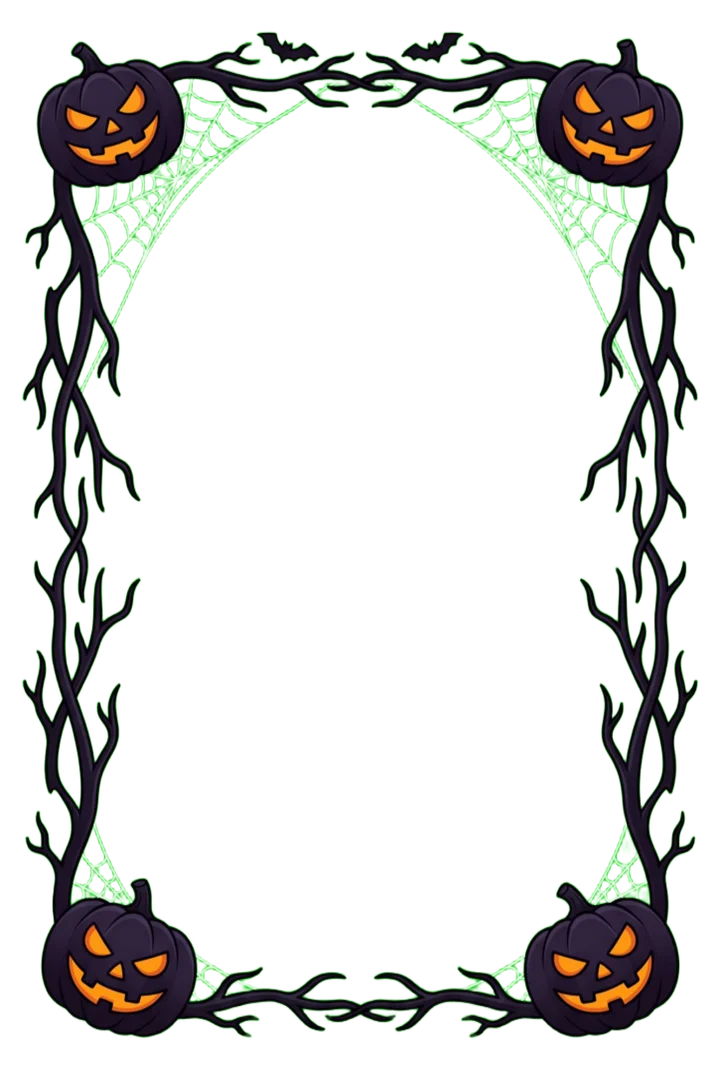
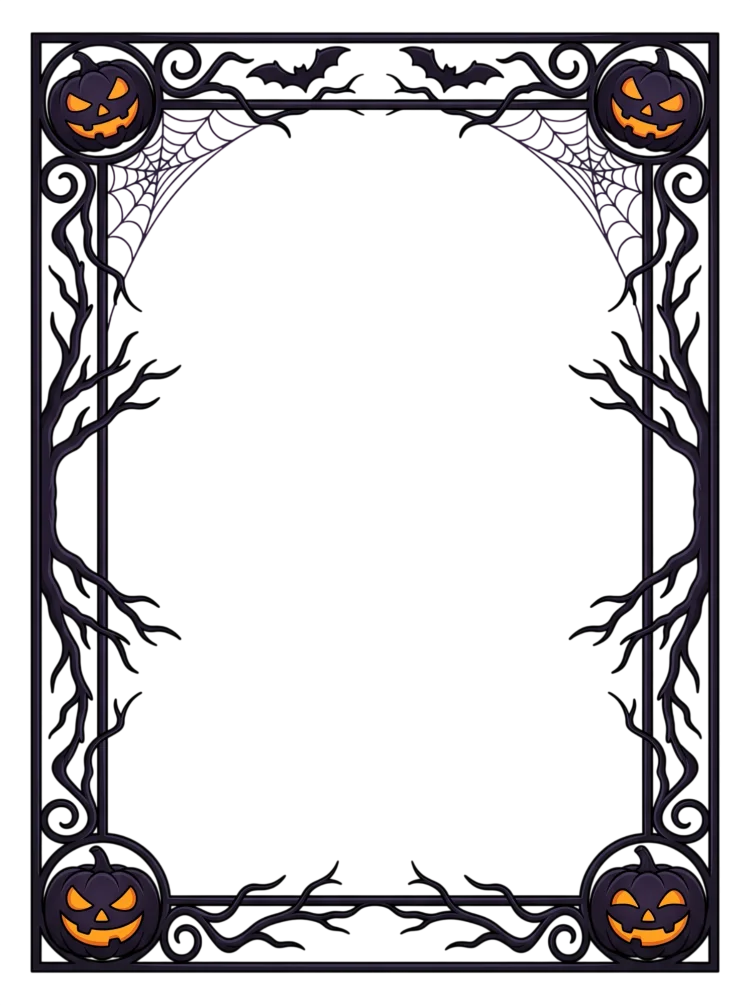
Cadres de fête en version bordure : l'illustration se réduit à l'ouverture du cadre (nouveaux cadres larges de Jordan)

Changed region(s): [[0.0306, 0.0308, 0.9778, 0.9871]]

diff --git a/sw.js b/sw.js
@@ -5,9 +5,9 @@
    Le bloc entre les deux repères est réécrit par « node outils/versions.js » : ne pas le modifier à la main. */
 "use strict";
 /* VERSIONS-AUTO-DEBUT */
-const CORE_VERSION = "4b1147fe54";
-const MEDIA_VERSION = "0e15ce91e9";
-const PRECACHE_CORE = ["index.html","manifest.json","fonts/fonts.css?v=a5827da2","jeu.css?v=79c808df","vendor/supabase.js?v=16aeff36","config.js?v=bf7d9cd8","cloud.js?v=a13ce63b","cartes-en.js?v=b669ae2b","interface-en.js?v=cdd12c88","js/bac-a-sable.js?v=691dd380","js/cartes.js?v=f4223fd7","js/langue-profil.js?v=ee853e82","js/sons-effets.js?v=615d1c2f","js/moteur.js?v=91083fb9","js/boutique-modes.js?v=7a0b70bd","js/holo.js?v=bd9f5a71","js/ouverture.js?v=62a77604","js/interface.js?v=08609b58","js/sw-register.js?v=94e2e138"];
+const CORE_VERSION = "feeaeb6063";
+const MEDIA_VERSION = "e69fef2344";
+const PRECACHE_CORE = ["index.html","manifest.json","fonts/fonts.css?v=a5827da2","jeu.css?v=43bc0903","vendor/supabase.js?v=16aeff36","config.js?v=bf7d9cd8","cloud.js?v=a13ce63b","cartes-en.js?v=b669ae2b","interface-en.js?v=cdd12c88","js/bac-a-sable.js?v=691dd380","js/cartes.js?v=f4223fd7","js/langue-profil.js?v=ee853e82","js/sons-effets.js?v=615d1c2f","js/moteur.js?v=91083fb9","js/boutique-modes.js?v=7a0b70bd","js/holo.js?v=bd9f5a71","js/ouverture.js?v=62a77604","js/interface.js?v=bd437b36","js/sw-register.js?v=94e2e138"];
 const PRECACHE_MEDIA = ["fonts/manrope-latin-ext-wght-normal.woff2","fonts/manrope-latin-wght-normal.woff2","fonts/marcellus-latin-400-normal.woff2","fonts/marcellus-latin-ext-400-normal.woff2","fonts/marcellus-sc-latin-400-normal.woff2","fonts/marcellus-sc-latin-ext-400-normal.woff2","icones/apple-touch-icon.png","icones/favicon-48.png","icones/icone-192.png","icones/icone-512.png","icones/icone-maskable-512.png","images/fond.webp","images/fond_halloween.webp","images/fond_noel.webp","images/fond_nouvelan.webp","images/fond_valentin.webp","images/lieux/inconnu.webp","images/pack.webp","images/rangs/0.webp","images/rangs/1.webp","images/rangs/2.webp","images/rangs/3.webp","images/rangs/4.webp","images/rangs/5.webp","images/rangs/6.webp","images/reflet.webp"];
 const PRECACHE_LAZY = ["images/avatars/aine.webp?v=7","images/avatars/amaterasu.webp?v=7","images/avatars/anahita.webp?v=7","images/avatars/ananke.webp?v=7","images/avatars/ananke_r.webp?v=7","images/avatars/ananke_v.webp?v=7","images/avatars/anansi.webp?v=7","images/avatars/anat.webp?v=7","images/avatars/andraste.webp?v=7","images/avatars/anubis.webp?v=7","images/avatars/aphrodite.webp?v=7","images/avatars/aphrodite_n.webp?v=7","images/avatars/aphrodite_r.webp?v=7","images/avatars/apollon.webp?v=7","images/avatars/apsu.webp?v=7","images/avatars/apsu_n.webp?v=7","images/avatars/araignee.webp?v=7","images/avatars/archiviste.webp?v=7","images/avatars/ares.webp?v=7","images/avatars/ares_h.webp?v=7","images/avatars/ares_n.webp?v=7","images/avatars/artemis.webp?v=7","images/avatars/artiste.webp?v=7","images/avatars/athena.webp?v=7","images/avatars/athlete_stade.webp?v=7","images/avatars/baba_yaga.webp?v=7","images/avatars/baldur.webp?v=7","images/avatars/balor.webp?v=7","images/avatars/bari_gongju.webp?v=7","images/avatars/bastet.webp?v=7","images/avatars/belobog.webp?v=7","images/avatars/benzaiten.webp?v=7","images/avatars/bia.webp?v=7","images/avatars/biblio.webp?v=7","images/avatars/boucher.webp?v=7","images/avatars/bourreau.webp?v=7","images/avatars/brigid.webp?v=7","images/avatars/calypso.webp?v=7","images/avatars/calypso_n.webp?v=7","images/avatars/calypso_v.webp?v=7","images/avatars/carillonneur.webp?v=7","images/avatars/celeste.webp?v=7","images/avatars/cernunnos.webp?v=7","images/avatars/cerridwen.webp?v=7","images/avatars/change.webp?v=7","images/avatars/charognard.webp?v=7","images/avatars/chasseur.webp?v=7","images/avatars/chernobog.webp?v=7","images/avatars/circe.webp?v=7","images/avatars/circe_n.webp?v=7","images/avatars/circe_v.webp?v=7","images/avatars/colosse.webp?v=7","images/avatars/comptable.webp?v=7","images/avatars/costumes.webp?v=7","images/avatars/coursier.webp?v=7","images/avatars/couturiere.webp?v=7","images/avatars/cronos.webp?v=7","images/avatars/dagda.webp?v=7","images/avatars/daji.webp?v=7","images/avatars/dante.webp?v=7","images/avatars/danu.webp?v=7","images/avatars/demeter.webp?v=7","images/avatars/devote.webp?v=7","images/avatars/dionysos.webp?v=7","images/avatars/doyenne.webp?v=7","images/avatars/dumuzi.webp?v=7","images/avatars/durga.webp?v=7","images/avatars/ea.webp?v=7","images/avatars/echidna.webp?v=7","images/avatars/ecoliere_dorigny.webp?v=7","images/avatars/ecorche.webp?v=7","images/avatars/effigie.webp?v=7","images/avatars/eir.webp?v=7","images/avatars/emiri.webp?v=7","images/avatars/enfant.webp?v=7","images/avatars/eos.webp?v=7","images/avatars/eos_r.webp?v=7","images/avatars/eos_v.webp?v=7","images/avatars/ereshkigal.webp?v=7","images/avatars/ereshkigal_n.webp?v=7","images/avatars/ereshkigal_v.webp?v=7","images/avatars/eris.webp?v=7","images/avatars/eros.webp?v=7","images/avatars/esquille.webp?v=7","images/avatars/fange.webp?v=7","images/avatars/felix.webp?v=7","images/avatars/fenrir.webp?v=7","images/avatars/ficelle.webp?v=7","images/avatars/freya.webp?v=7","images/avatars/freyr.webp?v=7","images/avatars/frigg.webp?v=7","images/avatars/funambule.webp?v=7","images/avatars/gaia.webp?v=7","images/avatars/graffeur.webp?v=7","images/avatars/guanyin.webp?v=7","images/avatars/hades.webp?v=7","images/avatars/hathor.webp?v=7","images/avatars/hecate.webp?v=7","images/avatars/hedone.webp?v=7","images/avatars/heimdall.webp?v=7","images/avatars/hel.webp?v=7","images/avatars/hel_r.webp?v=7","images/avatars/hel_v.webp?v=7","images/avatars/hephaistos.webp?v=7","images/avatars/hera.webp?v=7","images/avatars/herakles.webp?v=7","images/avatars/hermes.webp?v=7","images/avatars/horus.webp?v=7","images/avatars/hypnos.webp?v=7","images/avatars/idunn.webp?v=7","images/avatars/inanna.webp?v=7","images/avatars/indra.webp?v=7","images/avatars/ishara.webp?v=7","images/avatars/ishtar.webp?v=7","images/avatars/isis.webp?v=7","images/avatars/ixchel.webp?v=7","images/avatars/izanami.webp?v=7","images/avatars/izzy.webp?v=7","images/avatars/izzy_h.webp?v=7","images/avatars/joanna.webp?v=7","images/avatars/jordan.webp?v=7","images/avatars/jordan_n.webp?v=7","images/avatars/jormungandr.webp?v=7","images/avatars/joueuse_palud.webp?v=7","images/avatars/kali.webp?v=7","images/avatars/kama.webp?v=7","images/avatars/kitsune.webp?v=7","images/avatars/kitsune_r.webp?v=7","images/avatars/kitsune_v.webp?v=7","images/avatars/konohana.webp?v=7","images/avatars/lance_lugh.webp?v=7","images/avatars/lilith.webp?v=7","images/avatars/lipdentelle.webp?v=7","images/avatars/loki.webp?v=7","images/avatars/loviatar.webp?v=7","images/avatars/lugh.webp?v=7","images/avatars/maat.webp?v=7","images/avatars/maeve.webp?v=7","images/avatars/mago.webp?v=7","images/avatars/marduk.webp?v=7","images/avatars/maree.webp?v=7","images/avatars/maui.webp?v=7","images/avatars/medee.webp?v=7","images/avatars/medee_h.webp?v=7","images/avatars/meduse.webp?v=7","images/avatars/melinoe.webp?v=7","images/avatars/mendiant.webp?v=7","images/avatars/mere.webp?v=7","images/avatars/messagere.webp?v=7","images/avatars/meute.webp?v=7","images/avatars/mohini.webp?v=7","images/avatars/morrigan.webp?v=7","images/avatars/morrigan_h.webp?v=7","images/avatars/mouche.webp?v=7","images/avatars/musicien.webp?v=7","images/avatars/nageuse_lac.webp?v=7","images/avatars/namaka.webp?v=7","images/avatars/nammu.webp?v=7","images/avatars/nemesis.webp?v=7","images/avatars/nephtys.webp?v=7","images/avatars/nergal.webp?v=7","images/avatars/nergal_h.webp?v=7","images/avatars/nike.webp?v=7","images/avatars/nike_v.webp?v=7","images/avatars/nuee.webp?v=7","images/avatars/nuwa.webp?v=7","images/avatars/nyx.webp?v=7","images/avatars/nyx_h.webp?v=7","images/avatars/odin.webp?v=7","images/avatars/oshun.webp?v=7","images/avatars/osiris.webp?v=7","images/avatars/oya.webp?v=7","images/avatars/pakhet.webp?v=7","images/avatars/pandore.webp?v=7","images/avatars/passante.webp?v=7","images/avatars/patronne.webp?v=7","images/avatars/peche_immortalite.webp?v=7","images/avatars/pele.webp?v=7","images/avatars/pele_r.webp?v=7","images/avatars/penitente.webp?v=7","images/avatars/persephone.webp?v=7","images/avatars/plume.webp?v=7","images/avatars/poseidon.webp?v=7","images/avatars/possedee.webp?v=7","images/avatars/promethee.webp?v=7","images/avatars/psyche.webp?v=7","images/avatars/qetesh.webp?v=7","images/avatars/qetesh_r.webp?v=7","images/avatars/qetesh_v.webp?v=7","images/avatars/quetzalcoatl.webp?v=7","images/avatars/ra.webp?v=7","images/avatars/rati.webp?v=7","images/avatars/refaph.webp?v=7","images/avatars/reflet_noir.webp?v=7","images/avatars/reine_sevelin.webp?v=7","images/avatars/relieur.webp?v=7","images/avatars/remi.webp?v=7","images/avatars/rhea.webp?v=7","images/avatars/rusalka.webp?v=7","images/avatars/sansvoix.webp?v=7","images/avatars/scathach.webp?v=7","images/avatars/sedna.webp?v=7","images/avatars/sekhmet.webp?v=7","images/avatars/sekhmet_n.webp?v=7","images/avatars/selene.webp?v=7","images/avatars/set.webp?v=7","images/avatars/shamash.webp?v=7","images/avatars/shango.webp?v=7","images/avatars/shiva.webp?v=7","images/avatars/sif.webp?v=7","images/avatars/skadi.webp?v=7","images/avatars/somnambule.webp?v=7","images/avatars/source.webp?v=7","images/avatars/strategue.webp?v=7","images/avatars/styx.webp?v=7","images/avatars/sun_wukong.webp?v=7","images/avatars/susanoo.webp?v=7","images/avatars/tatoueur.webp?v=7","images/avatars/tatoueuse_flon.webp?v=7","images/avatars/tefnut.webp?v=7","images/avatars/tehom.webp?v=7","images/avatars/tezcatlipoca.webp?v=7","images/avatars/thanatos.webp?v=7","images/avatars/themis.webp?v=7","images/avatars/thor.webp?v=7","images/avatars/thot.webp?v=7","images/avatars/tlazol.webp?v=7","images/avatars/troll.webp?v=7","images/avatars/tsukuyomi.webp?v=7","images/avatars/typhon.webp?v=7","images/avatars/tyr.webp?v=7","images/avatars/ulaph.webp?v=7","images/avatars/ulaphares.webp?v=7","images/avatars/ularchiviste.webp?v=7","images/avatars/ularesathe.webp?v=7","images/avatars/ulbaldere.webp?v=7","images/avatars/ulbaldfrigg.webp?v=7","images/avatars/ulcal.webp?v=7","images/avatars/ulcircal.webp?v=7","images/avatars/ulcirce.webp?v=7","images/avatars/ulhadper.webp?v=7","images/avatars/ulhel.webp?v=7","images/avatars/ulheradio.webp?v=7","images/avatars/ulinaere.webp?v=7","images/avatars/ulji.webp?v=7","images/avatars/ulmaatset.webp?v=7","images/avatars/ulnem.webp?v=7","images/avatars/ulnikebia.webp?v=7","images/avatars/ulnikejor_v.webp?v=7","images/avatars/uloshoya.webp?v=7","images/avatars/uloshun.webp?v=7","images/avatars/ulpele_r.webp?v=7","images/avatars/ulposathe.webp?v=7","images/avatars/ulprombia.webp?v=7","images/avatars/ulprompan.webp?v=7","images/avatars/ulqetjor.webp?v=7","images/avatars/ulqetjor_r.webp?v=7","images/avatars/ulqetjor_v.webp?v=7","images/avatars/ulqetyar.webp?v=7","images/avatars/ulsomnambule.webp?v=7","images/avatars/ulsusama.webp?v=7","images/avatars/ultyphgaia.webp?v=7","images/avatars/ulya.webp?v=7","images/avatars/uzume.webp?v=7","images/avatars/vasseur.webp?v=7","images/avatars/veilleur.webp?v=7","images/avatars/veilleur_pont.webp?v=7","images/avatars/vesta.webp?v=7","images/avatars/voix_flon.webp?v=7","images/avatars/voleuse.webp?v=7","images/avatars/voyante.webp?v=7","images/avatars/voyante_barbare.webp?v=7","images/avatars/vritra.webp?v=7","images/avatars/xiuhcoatl.webp?v=7","images/avatars/xiwangmu.webp?v=7","images/avatars/yama.webp?v=7","images/avatars/yarden.webp?v=7","images/avatars/yarden_d.webp?v=7","images/avatars/yemanja.webp?v=7","images/avatars/ymir.webp?v=7","images/avatars/zeus.webp?v=7","images/lieux/archives.webp","images/lieux/cathedrale.webp","images/lieux/cirque.webp","images/lieux/domaine.webp","images/lieux/encheres.webp","images/lieux/escaliers.webp","images/lieux/faille.webp","images/lieux/flon.webp","images/lieux/ouchy.webp","images/lieux/ruelle.webp","images/lieux/sauvabelin.webp","images/lieux/sousgare.webp","images/lieux/tombeau.webp","images/lieux/tour.webp"];
 /* VERSIONS-AUTO-FIN */

diff --git a/js/interface.js b/js/interface.js
@@ -56,9 +56,12 @@ function holoTilesAttach(root){
   for(const [k,v] of HOLO_TILES) if(!live.has(k)){ holoKill(v.h); HOLO_TILES.delete(k); }
 }
 /* Cadres de fête (Jordan, 25 octobre) : cartes exclusives d'une saison et variantes Saint-Valentin / Nouvel An, affichés à l'accueil et dans la Collection (pas en partie), désactivables dans les Réglages */
+const FRAME_OPEN={"paques":[0.117,0.117,0.134,0.113],"halloween":[0.144,0.145,0.11,0.11],"saint-valentin":[0.126,0.127,0.11,0.11],"noel":[0.095,0.115,0.114,0.083],"nouvel-an":[0.188,0.188,0.159,0.136]};   /* [gauche, droite, haut, bas] : marges de l'ouverture du cadre, en fraction de l'image */
 const FRAME_EX={halloween:"halloween",noel:"noel",nouvelan:"nouvel-an",paques:"paques",valentin:"saint-valentin"};
 const frameKey=id=>{ const d=CARDS[id]; if(!d||d.token) return null; if(d.ex&&FRAME_EX[d.ex]) return FRAME_EX[d.ex]; if(/_v$/.test(id)) return "saint-valentin"; if(/_r$/.test(id)) return "nouvel-an"; if(/_p$/.test(id)) return "paques"; return null; };
 const frameCadre=id=>frameOn()&&frameKey(id)?`<i class="cadre cz" style="background-image:url('images/cadres/${frameKey(id)}.webp')" aria-hidden="true"></i>`:"";
+const frameVars=k=>{ const o=FRAME_OPEN[k]; return o?`--fl:${o[0]*100}%;--fr:${o[1]*100}%;--ft:${o[2]*100}%;--fb:${o[3]*100}%`:""; };
+const framePad=id=>{ const k=frameOn()&&frameKey(id), o=k&&FRAME_OPEN[k]; return o?` fr" style="padding:${(o[2]*150).toFixed(2)}% ${(o[1]*100).toFixed(2)}% ${(o[3]*150).toFixed(2)}% ${(o[0]*100).toFixed(2)}%`:""; };
 const frameOn=()=>P.cadres!==false&&screen!=="play"&&!(S&&S.tut);
 function fullCard(id,extra="",powOv=null){
   const d=CARDS[id], F=FAC[d.fac], R=RAR[d.r];
@@ -66,7 +69,8 @@ function fullCard(id,extra="",powOv=null){
   const hp=/\b(big|fanh)\b/.test(extra)&&d.r==="U"&&!!holoDir(id);
   const fx=!hp&&/\bbig\b/.test(extra)&&(d.r==="L"||d.r==="U")?` tilt${d.r==="U"&&d.vfx?" amb":""}" data-vfx="${d.vfx||""}`:"";
   const tl=/\btileh\b/.test(extra)&&hasHoloTile(id);
-  return `<div class="full ${extra}${d.r==="U"&&!hp&&!tl?" holo":""}${hp?" holopre":""}${tl?" holof":""}${rc(d)}${fx}">${art(id,/\bbig\b/.test(extra)?"big":undefined)}${tl?tileHolo(id,"g"+id):""}${frameOn()&&frameKey(id)?`<i class="cadre" style="background-image:url('images/cadres/${frameKey(id)}.webp')" aria-hidden="true"></i>`:""}${d.r==="L"?'<i class="lgp" aria-hidden="true"></i>':""}<span class="cost">${d.cost}</span>
+  const fk=frameOn()&&!hp&&frameKey(id);
+  return `<div class="full ${extra}${fk?" fr":""}${d.r==="U"&&!hp&&!tl?" holo":""}${hp?" holopre":""}${tl?" holof":""}${rc(d)}${fx}"${fk?` style="${frameVars(fk)}"`:""}>${art(id,/\bbig\b/.test(extra)?"big":undefined)}${tl?tileHolo(id,"g"+id):""}${fk?`<i class="cadre" style="background-image:url('images/cadres/${fk}.webp')" aria-hidden="true"></i>`:""}${d.r==="L"?'<i class="lgp" aria-hidden="true"></i>':""}<span class="cost">${d.cost}</span>
     <div class="band"><div class="n">${d.name}</div><div class="f"><span style="color:${F.c}">${F.n}</span> · <span style="color:${R.c}">${rarN(id)}</span></div>${d.fx?`<div class="e">${fxH(d.fx)}</div>`:""}</div>
     <span class="pw ${powOv!=null&&powOv>d.pow?"up":powOv!=null&&powOv<d.pow?"down":""}">${powOv!=null?powOv:d.pow}</span></div>`;
 }
@@ -480,7 +484,7 @@ function fanPickHTML(){
 /* --- carte agrandie --- */
 function zoomHTML(){
   if(!zoomId) return ""; const d=CARDS[zoomId], F=FAC[d.fac], R=RAR[d.r];
-  return `<div class="veil" data-act="unzoom"><div class="zoomwrap">${holoDir(zoomId)?`<div class="holoslot" id="holoslot" data-act="holoin">${fullCard(zoomId,"big")}${frameCadre(zoomId)}</div>`:fullCard(zoomId,"big")}
+  return `<div class="veil" data-act="unzoom"><div class="zoomwrap">${holoDir(zoomId)?`<div class="holoslot${framePad(zoomId)}" id="holoslot" data-act="holoin">${fullCard(zoomId,"big")}${frameCadre(zoomId)}</div>`:fullCard(zoomId,"big")}
     <div class="zoominfo"><div class="t">${d.name}</div><div class="m"><span style="color:${F.c}">${F.n}</span> · <span style="color:${R.c}">${rarN(zoomId)}</span> · coût ${d.cost} · puissance ${d.pow}</div>${d.fx?`<p>${fxH(d.fx)}</p>`:""}
     ${screen==="deck"&&P.owned.includes(zoomId)&&!d.token?`<p class="deckstate ${P.deck.includes(zoomId)?"in":""}">${P.deck.includes(zoomId)?`Dans ton deck · ${P.deck.length}/${ECO.deckSize}`:`Pas dans ton deck · ${P.deck.length}/${ECO.deckSize}`}</p>${deckMsg?`<p class="deckmsg">${deckMsg}</p>`:""}<button class="primary" data-act="toggle" data-id="${zoomId}">${P.deck.includes(zoomId)?"Retirer du deck":"Ajouter au deck"}</button>`:""}
     <div class="row2"><button class="ghost" data-act="unzoom">Fermer</button>${P.owned.includes(zoomId)&&P.avatar!==zoomId?`<button class="ghost" data-act="avset" data-id="${zoomId}">En faire mon avatar</button>`:""}</div></div></div></div>`;

diff --git a/jeu.css b/jeu.css
@@ -913,7 +913,7 @@ body:has(.sandbar) #app{padding-top:62px}
 .full.holopre{border-color:rgba(232,184,90,.42);box-shadow:inset 0 0 0 1px rgba(232,184,90,.3)}
 
 .holoslot{position:relative}
-.holoslot>.cadre.cz{position:absolute;inset:0;z-index:6;background-size:100% 100%;background-repeat:no-repeat;pointer-events:none;border-radius:12px}
+.holoslot>.cadre.cz{position:absolute;inset:0;z-index:6;background-size:100% 100%;background-repeat:no-repeat;pointer-events:none}
 
 .cdjour{display:flex;align-items:center;gap:12px;padding:10px 12px;margin:10px 0}
 .cdjour .cdth{flex:0 0 58px;width:58px;aspect-ratio:2/3;padding:0;border:1px solid var(--warm);border-radius:8px;overflow:hidden;background:var(--lake);cursor:pointer}
@@ -922,3 +922,15 @@ body:has(.sandbar) #app{padding-top:62px}
 .cdjour .cdtx{display:flex;flex-direction:column;gap:2px;min-width:0}
 .cdjour .cdtx b{font-family:var(--display);font-size:17px}
 .cdjour .eyebrow{color:var(--warm)}
+
+/* Cadres de fête, version « bordure » : l'illustration est réduite à l'ouverture du cadre (variables --fl --fr --ft --fb), le cadre couvre toute la carte */
+.full.fr .art,.full.fr .holotile{inset:var(--ft) var(--fr) var(--fb) var(--fl);border-radius:4px}
+.full.fr .band{left:var(--fl);right:var(--fr);bottom:var(--fb);padding:22px 6px 5px}
+.full.fr .band .n{font-size:.92em}
+.full.fr .cost{left:calc(var(--fl) + 3px);top:calc(var(--ft) + 3px)}
+.full.fr .pw{right:calc(var(--fr) + 3px);top:calc(var(--ft) + 3px)}
+.full.fr .cadre{z-index:3}
+.holoslot.fr{box-sizing:border-box}
+.holoslot.fr>.full{width:100%}
+.full.fr .band .e{display:none}
+.full.fr .cost,.full.fr .pw{z-index:4}

diff --git a/index.html b/index.html
@@ -3,7 +3,7 @@
 <link rel="preload" href="fonts/manrope-latin-wght-normal.woff2" as="font" type="font/woff2" crossorigin>
 <link rel="preload" href="fonts/marcellus-latin-400-normal.woff2" as="font" type="font/woff2" crossorigin>
 <link rel="stylesheet" href="fonts/fonts.css?v=a5827da2">
-<link rel="stylesheet" href="jeu.css?v=79c808df">
+<link rel="stylesheet" href="jeu.css?v=43bc0903">
 
 <div class="wrap" id="app"></div>
 
@@ -20,7 +20,7 @@
 <script src="js/boutique-modes.js?v=7a0b70bd"></script>
 <script src="js/holo.js?v=bd9f5a71" data-mod="js/holo-card.js?v=e749a367"></script>
 <script src="js/ouverture.js?v=62a77604"></script>
-<script src="js/interface.js?v=08609b58"></script>
+<script src="js/interface.js?v=bd437b36"></script>
 <script src="js/sw-register.js?v=94e2e138"></script>
 
 
